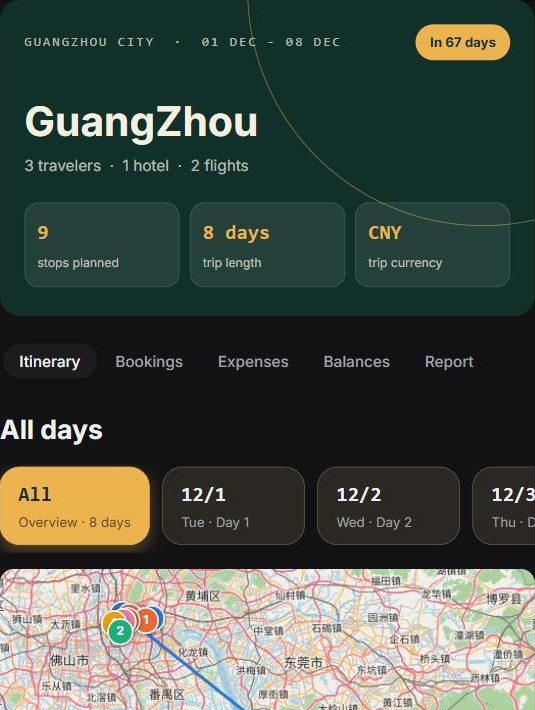
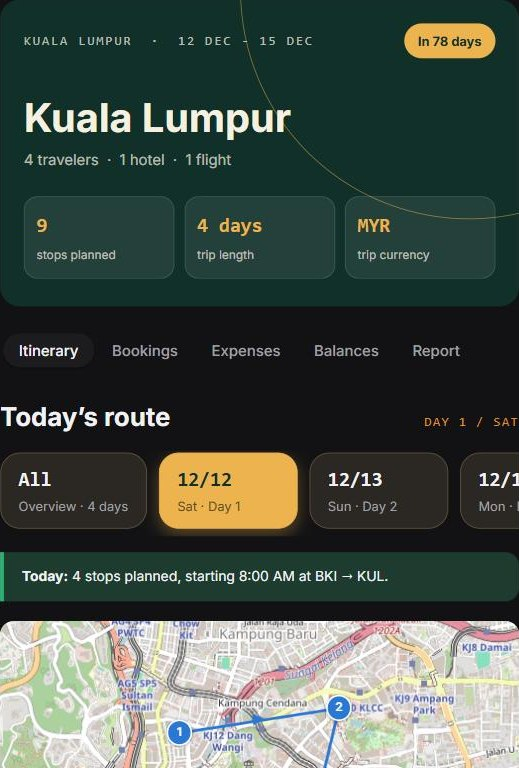
Refresh landing hero with the Kuala Lumpur trip screenshots

diff --git a/apps/web/src/pages/LandingPage.tsx b/apps/web/src/pages/LandingPage.tsx
@@ -59,16 +59,16 @@ export function LandingPage({
             <img
               className="landing-hero-shot landing-hero-shot-light"
               src="/hero-itinerary-light.jpg"
-              alt="A Cuti trip page: the Guangzhou trip banner with stops, trip length and currency, day-by-day tabs, and the route map"
-              width={535}
-              height={710}
+              alt="A Cuti trip to Kuala Lumpur for four travellers: nine stops over four days in ringgit, with day one's route on the map"
+              width={519}
+              height={768}
             />
             <img
               className="landing-hero-shot landing-hero-shot-dark"
               src="/hero-itinerary-dark.jpg"
-              alt="A Cuti trip page: the Guangzhou trip banner with stops, trip length and currency, day-by-day tabs, and the route map"
-              width={535}
-              height={710}
+              alt="A Cuti trip to Kuala Lumpur for four travellers: nine stops over four days in ringgit, with day one's route on the map"
+              width={519}
+              height={768}
               loading="lazy"
             />
           </div>
